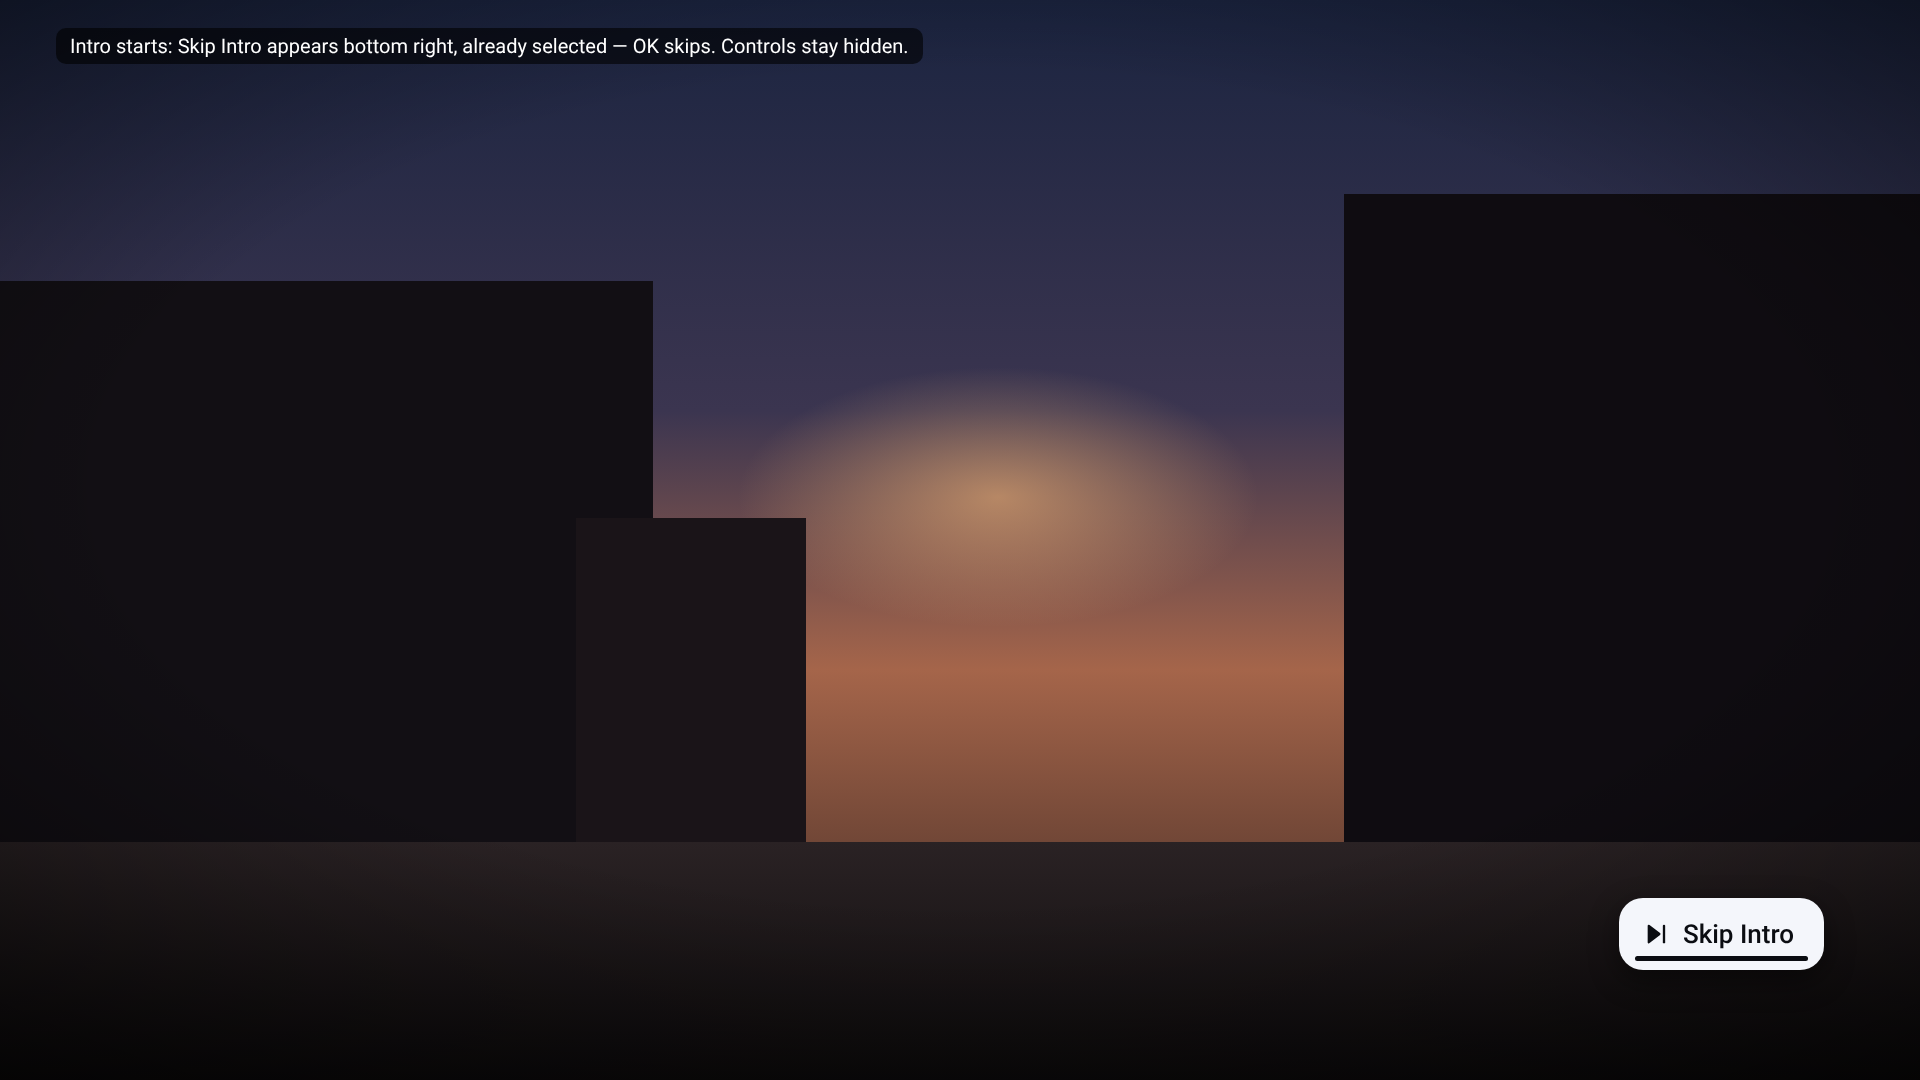
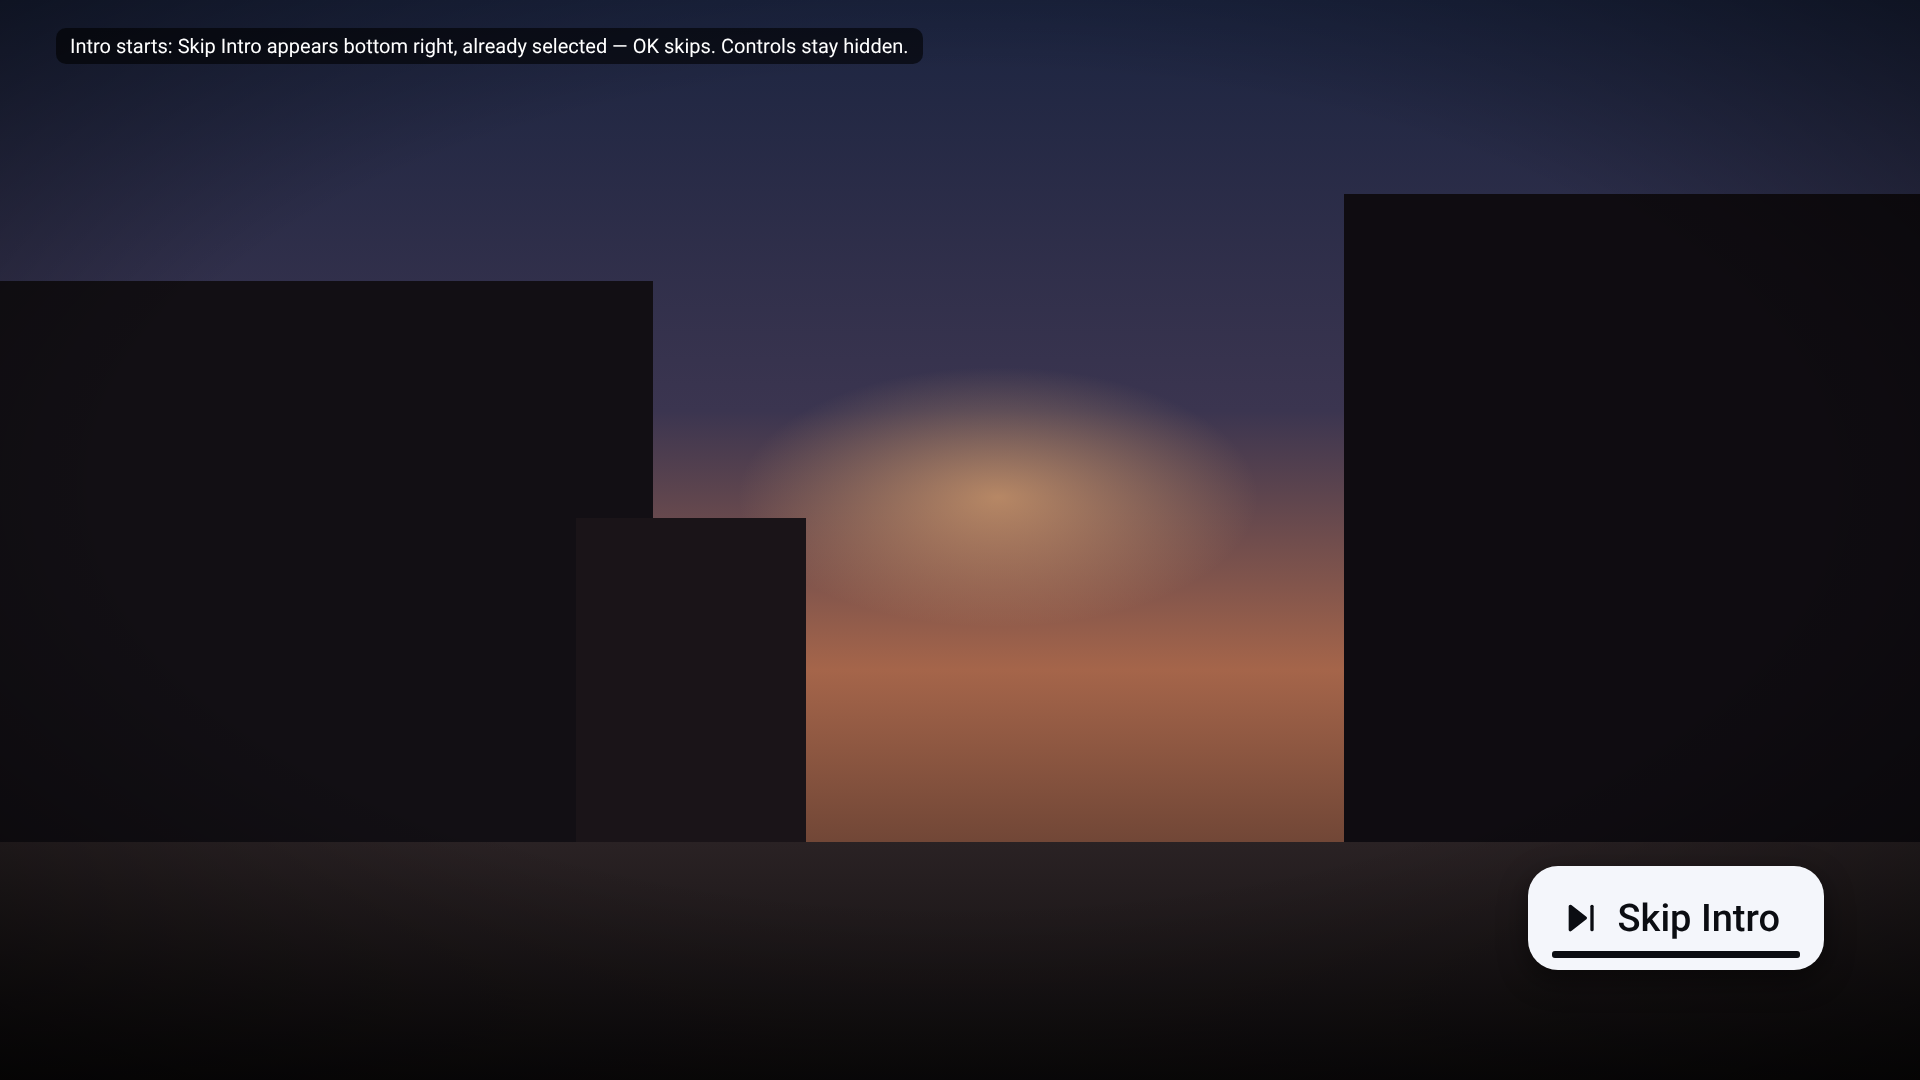
Skip button: bottom right, larger
Claude-Session: https://claude.ai/code/session_01FtDZqamY6pdaUKwc7fqgiA

Changed region(s): [[0.7812, 0.7944, 0.9688, 0.9167]]

diff --git a/docs/design/proposals/skip-button/render.js b/docs/design/proposals/skip-button/render.js
@@ -9,7 +9,7 @@ const P = { skip: '<path d="M5 5l9 7-9 7z" fill="currentColor"/><path d="M18 5v1
 const ic = (k, s = 30) => `<svg width="${s}" height="${s}" viewBox="0 0 24 24" fill="none" stroke="currentColor" stroke-width="2" stroke-linecap="round" stroke-linejoin="round">${P[k]}</svg>`;
 // A stand-in film frame (no real artwork): dusky street scene in gradients.
 const frame = `<div class="video"><i class="sky"></i><i class="glow"></i><i class="b1"></i><i class="b2"></i><i class="b3"></i><i class="road"></i><i class="vig"></i></div>`;
-const skip = (left, where) => `<div class="skip ${where}"><span>${ic('skip', 28)}Skip Intro</span><i class="cd"><b style="width:${left * 100}%"></b></i></div>`;
+const skip = (left, where) => `<div class="skip ${where}"><span>${ic('skip', 40)}Skip Intro</span><i class="cd"><b style="width:${left * 100}%"></b></i></div>`;
 const hud = `<div class="htitle">Slow Horses</div><div class="hsub">Season 5 · Episode 2 · Opening titles</div>
   <div class="hud"><div class="hb">${ic('pause', 34)}</div><div class="bar"><div class="buf"></div><div class="played"></div><div class="thumb"></div>
   <div class="bubble"><b>00:01:12</b><span>Intro</span></div></div><div class="hb">${ic('gear', 30)}<span>Settings</span></div></div>`;
@@ -17,7 +17,6 @@ const shots = [
   ['01-appears-bottom-right.png', frame + skip(1, 'br'), 'Intro starts: Skip Intro appears bottom right, already selected — OK skips. Controls stay hidden.'],
   ['02-countdown.png', frame + skip(.4, 'br'), 'About 2 seconds left: the bar inside the button runs down; at zero the button fades and the intro plays on'],
   ['03-with-controls-open.png', frame + `<div class="shade"></div>` + hud + skip(.7, 'br up'), 'Controls opened while it shows: the button sits just above them, still selected; Down goes to the controls'],
-  ['04-alternative-bottom-left.png', frame + skip(1, 'bl'), 'Alternative placement for comparison: bottom left, same behaviour'],
 ];
 const css = `${font(400)}${font(500)}${font(700)}*{box-sizing:border-box;margin:0}
 body{width:1920px;height:1080px;overflow:hidden;font-family:R;color:#fff;position:relative;background:#000}
@@ -28,11 +27,11 @@ body{width:1920px;height:1080px;overflow:hidden;font-family:R;color:#fff;positio
 .b3{left:30%;bottom:22%;width:12%;height:30%;background:#1a1418}.road{left:0;right:0;bottom:0;height:22%;background:linear-gradient(180deg,#2a2224,#0c0a0b)}
 .vig{inset:0;background:radial-gradient(ellipse 80% 70% at 50% 45%,rgba(0,0,0,0) 55%,rgba(0,0,0,.6))}
 .shade{position:absolute;inset:0;background:linear-gradient(0deg,rgba(0,0,0,.75) 0%,rgba(0,0,0,0) 45%)}
-.skip{position:absolute;height:72px;padding:0 30px 0 24px;border-radius:24px;background:#F4F6FB;color:#0B0D12;font-size:26px;font-weight:500;
+.skip{position:absolute;height:104px;padding:0 44px 0 34px;border-radius:30px;background:#F4F6FB;color:#0B0D12;font-size:38px;font-weight:500;
   display:flex;align-items:center;box-shadow:0 10px 30px rgba(0,0,0,.45);overflow:hidden}
-.skip span{display:flex;align-items:center;gap:12px}
-.skip .cd{position:absolute;left:16px;right:16px;bottom:9px;height:5px;border-radius:3px;background:rgba(11,13,18,.15)}.skip .cd b{display:block;height:100%;border-radius:3px;background:#0B0D12}
-.skip.br{right:96px;bottom:110px}.skip.br.up{bottom:250px}.skip.bl{left:96px;bottom:110px}
+.skip span{display:flex;align-items:center;gap:16px}
+.skip .cd{position:absolute;left:24px;right:24px;bottom:12px;height:7px;border-radius:3px;background:rgba(11,13,18,.15)}.skip .cd b{display:block;height:100%;border-radius:3px;background:#0B0D12}
+.skip.br{right:96px;bottom:110px}.skip.br.up{bottom:260px}.skip.bl{left:96px;bottom:110px}
 .htitle{position:absolute;left:80px;top:690px;font-size:60px;font-weight:700}.hsub{position:absolute;left:84px;top:768px;font-size:26px}
 .hud{position:absolute;left:70px;right:70px;bottom:90px;height:80px;display:flex;align-items:center;gap:26px}
 .hb{height:72px;min-width:72px;padding:0 20px;border-radius:22px;background:rgba(22,24,28,.62);border:2px solid rgba(255,255,255,.22);display:flex;align-items:center;justify-content:center;gap:10px;font-size:22px;font-weight:500}

diff --git a/docs/0.155/OWNER_NOTES.md b/docs/0.155/OWNER_NOTES.md
@@ -204,5 +204,7 @@ Codex's branch `codex/0155-code-2026-11-04` (DP-01…DP-07, TV-only stages). **N
 - **Proposed (`docs/design/proposals/skip-button/01`–`04`):** white button "Skip Intro", bottom right, already
   selected when it appears — one OK skips; a thin bar inside counts down the 5 seconds, then it fades and the part
   plays; Back/Left/Right/Up dismiss it; with the controls open it sits just above them, still selected, and Down goes
-  to the controls. `04` shows bottom left for comparison.
-- **Status:** awaiting the owner's choice of placement and approval — then awaiting go-ahead to code.
+  to the controls.
+- **Owner (4 Nov 2026):** bottom right, and bigger. Revised `01`–`03`: about 104px tall with 38px text (was 72px / 26px);
+  bottom-left alternative dropped.
+- **Status:** placement decided; size, 5-second timing and look awaiting the owner's approval — then awaiting go-ahead to code.
